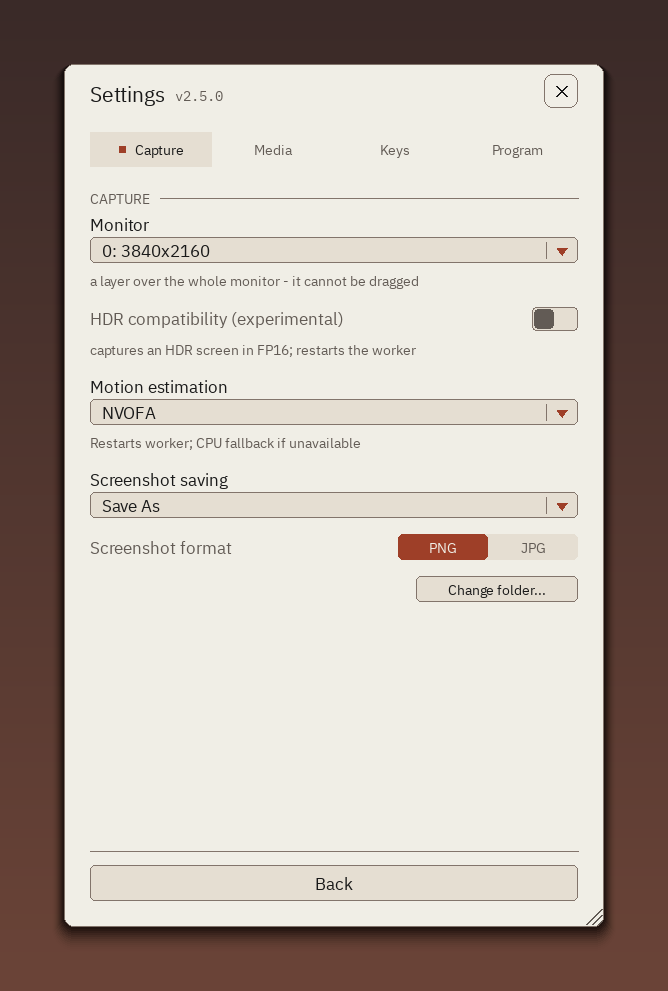
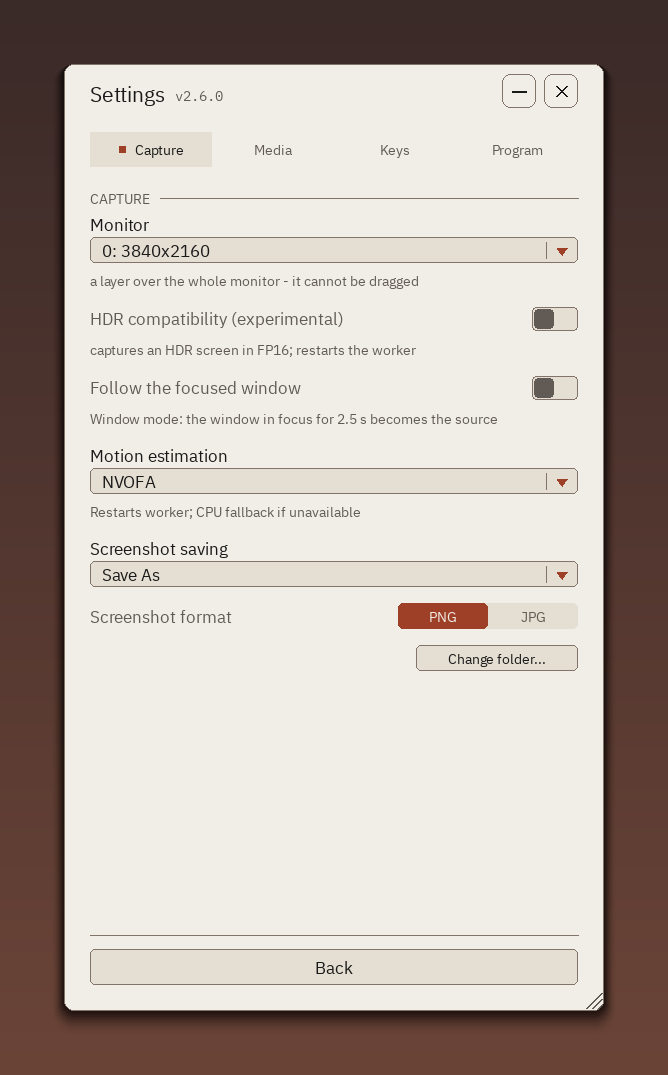
chore: v2.6.0 - version, rebuilt launcher, documentation screenshots

diff --git a/app/settings_io.py b/app/settings_io.py
@@ -218,7 +218,7 @@ def _set_autostart(enabled: bool) -> bool:
 
 # The version shown in the menu header. Kept in sync with native/launcher.rc
 # (FileVersion/ProductVersion) and build_release_zip.py at release time.
-APP_VERSION = "2.5.0"
+APP_VERSION = "2.6.0"
 
 
 # The channel label: the header shows the version, the channel lives in the

diff --git a/build_release_zip.py b/build_release_zip.py
@@ -32,7 +32,7 @@ from typing import Iterable, Sequence
 
 
 BASE = Path(__file__).resolve().parent
-VERSION = "2.5.0"
+VERSION = "2.6.0"
 EXPECTED_TAG = f"v{VERSION}"
 TARGET_ARCHS = (
     "RTX 30/40/50 (sm_86/89/120 kernels, spoof 0x1B0; "

diff --git a/CHANGELOG.md b/CHANGELOG.md
@@ -30,7 +30,7 @@ Scope and honesty notes:
 
 ---
 
-## Unreleased
+## v2.6.0 - 2026-10-18 - A lighter panel, colour controls, window follow, an even frame cap, the FG runtime 310.9.16
 
 * **A lighter panel (redesign B).** The main page ran to 1356 px at 100% -
   past a 1080p screen - with twenty-odd rows in one column. It is now four
